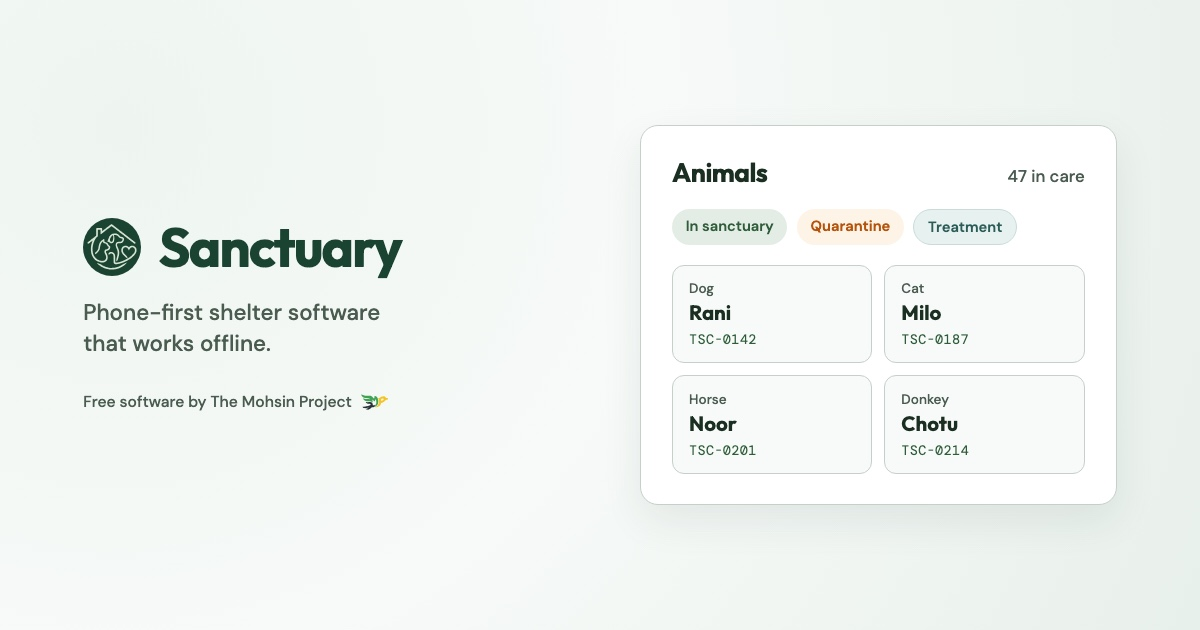
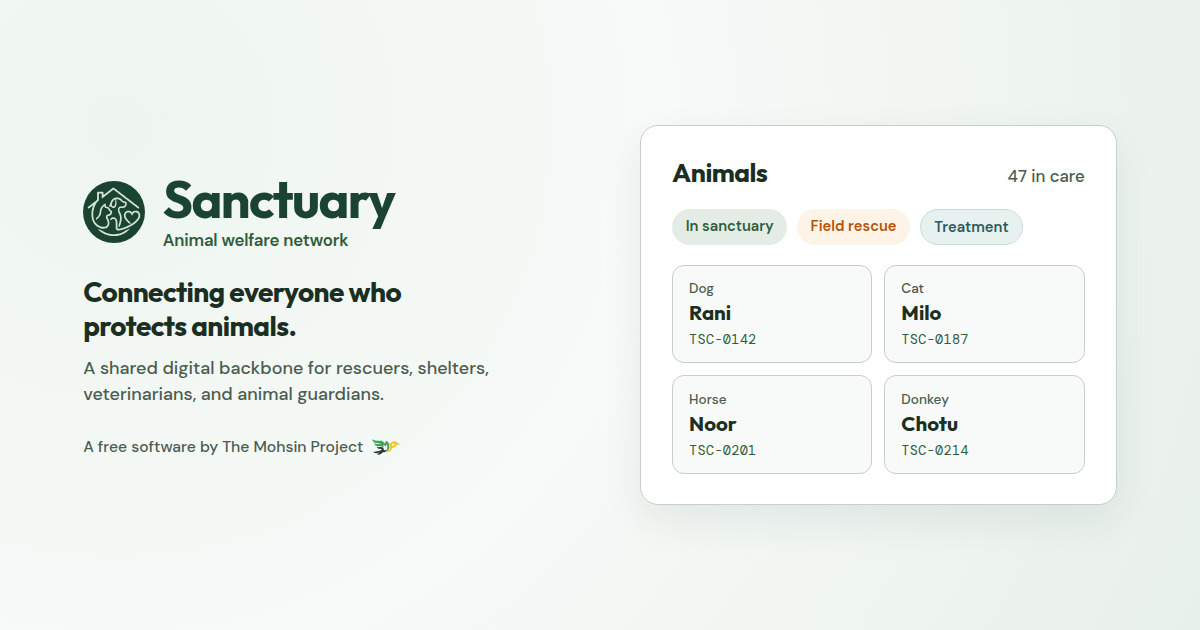
feat(seo): update OG image, SEO metadata, tab title, splash screens, and footer credit

diff --git a/index.html b/index.html
@@ -4,10 +4,10 @@
     <meta charset="UTF-8" />
     <meta name="viewport" content="width=device-width, initial-scale=1.0, viewport-fit=cover" />
 
-    <title>Sanctuary | Shelter records, offline and on the go</title>
+    <title>Sanctuary | Animal welfare network</title>
     <meta
       name="description"
-      content="Sanctuary is offline-first shelter management for animal rescues. Track animals, care, photos, and money, even without signal."
+      content="Sanctuary is an animal welfare network connecting rescuers, shelters, veterinarians, and animal guardians. Report cases, coordinate rescues, and manage care records."
     />
     <meta name="author" content="The Mohsin Project" />
     <meta name="robots" content="index, follow" />
@@ -22,26 +22,26 @@
     <meta property="og:site_name" content="Sanctuary" />
     <meta property="og:locale" content="en_US" />
     <meta property="og:url" content="https://sanctuary.themohsinproject.org/" />
-    <meta property="og:title" content="Sanctuary | Shelter records, offline and on the go" />
+    <meta property="og:title" content="Sanctuary | Animal welfare network" />
     <meta
       property="og:description"
-      content="Offline-first shelter management for animal rescues. Track animals, care, photos, and money, even without signal."
+      content="A shared digital backbone for rescuers, shelters, veterinarians, and animal guardians. Report cases, coordinate rescues, and manage animal care in one network."
     />
     <meta property="og:image" content="https://sanctuary.themohsinproject.org/og-image.jpg" />
     <meta property="og:image:type" content="image/jpeg" />
     <meta property="og:image:width" content="1200" />
     <meta property="og:image:height" content="630" />
-    <meta property="og:image:alt" content="Sanctuary care desk: shelter records offline and on the go" />
+    <meta property="og:image:alt" content="Sanctuary: The animal welfare network connecting rescuers, shelters, veterinarians, and animal guardians" />
 
     <!-- Twitter -->
     <meta name="twitter:card" content="summary_large_image" />
-    <meta name="twitter:title" content="Sanctuary | Shelter records, offline and on the go" />
+    <meta name="twitter:title" content="Sanctuary | Animal welfare network" />
     <meta
       name="twitter:description"
-      content="Offline-first shelter management for animal rescues. Track animals, care, photos, and money, even without signal."
+      content="A shared digital backbone for rescuers, shelters, veterinarians, and animal guardians. Report cases, coordinate rescues, and manage animal care in one network."
     />
     <meta name="twitter:image" content="https://sanctuary.themohsinproject.org/og-image.jpg" />
-    <meta name="twitter:image:alt" content="Sanctuary care desk: shelter records offline and on the go" />
+    <meta name="twitter:image:alt" content="Sanctuary: The animal welfare network connecting rescuers, shelters, veterinarians, and animal guardians" />
 
     <!-- Icons / PWA -->
     <link rel="icon" type="image/svg+xml" href="/favicon.svg" />
@@ -104,7 +104,7 @@
         "@type": "WebApplication",
         "name": "Sanctuary",
         "url": "https://sanctuary.themohsinproject.org/",
-        "description": "Offline-first shelter management for animal rescues. Track animals, care, photos, and money, even without signal.",
+        "description": "An animal welfare network connecting rescuers, shelters, veterinarians, and animal guardians. Report cases, coordinate rescues, and manage care records.",
         "applicationCategory": "BusinessApplication",
         "operatingSystem": "Any",
         "browserRequirements": "Requires a modern web browser with offline storage support.",
@@ -254,12 +254,12 @@
             </div>
             <div class="boot-screen__brand-text">
               <h1 class="brand">Sanctuary</h1>
-              <p class="subheading">Animal welfare platform</p>
+              <p class="subheading">Animal welfare network</p>
             </div>
           </div>
         </div>
         <div class="boot-screen__footer">
-          <span>Free software by The Mohsin Project</span>
+          <span>A free software by The Mohsin Project</span>
           <img src="/mohsin-project-logo-white.svg" alt="" height="18" />
         </div>
       </main>
@@ -268,11 +268,11 @@
       <main style="font-family: system-ui, sans-serif; max-width: 40rem; margin: 2rem auto; padding: 0 1rem; color: #1a2e22">
         <h1>Sanctuary</h1>
         <p>
-          Offline-first shelter management for animal rescues. Track animals,
-          care, photos, and money, even without signal.
+          A shared digital backbone for rescuers, shelters, veterinarians, and
+          animal guardians.
         </p>
         <p>
-          Enable JavaScript to sign in at
+          Enable JavaScript to continue at
           <a href="https://sanctuary.themohsinproject.org/">sanctuary.themohsinproject.org</a>.
         </p>
       </main>

diff --git a/scripts/generate-assets.swift b/scripts/generate-assets.swift
@@ -135,7 +135,7 @@ func generateSplashes() {
         ]
 
         let titleStr = NSAttributedString(string: "Sanctuary", attributes: titleAttrs)
-        let subStr = NSAttributedString(string: "Animal welfare platform", attributes: subAttrs)
+        let subStr = NSAttributedString(string: "Animal welfare network", attributes: subAttrs)
 
         let titleSize = titleStr.size()
         let subSize = subStr.size()
@@ -169,7 +169,7 @@ func generateSplashes() {
             .foregroundColor: footerColor,
             .kern: -0.01 * footerFontSize
         ]
-        let footerStr = NSAttributedString(string: "Free software by The Mohsin Project", attributes: footerAttrs)
+        let footerStr = NSAttributedString(string: "A free software by The Mohsin Project", attributes: footerAttrs)
         let footerStrSize = footerStr.size()
 
         let birdHeight = round(footerFontSize * 1.55)

diff --git a/src/shared/ui/SplashScreen.tsx b/src/shared/ui/SplashScreen.tsx
@@ -25,13 +25,13 @@ export function SplashScreen({
           </div>
           <div className="boot-screen__brand-text">
             <h1 className="brand">Sanctuary</h1>
-            <p className="subheading">Animal welfare platform</p>
+            <p className="subheading">Animal welfare network</p>
           </div>
         </div>
         {message ? <p className="muted">{message}</p> : null}
       </div>
       <div className="boot-screen__footer">
-        <span>Free software by The Mohsin Project</span>
+        <span>A free software by The Mohsin Project</span>
         <img src="/mohsin-project-logo-white.svg" alt="" height={18} />
       </div>
     </main>

diff --git a/vite.config.ts b/vite.config.ts
@@ -93,7 +93,7 @@ export default defineConfig({
         name: 'Sanctuary',
         short_name: 'Sanctuary',
         description:
-          'Offline-first shelter management for animal rescues. Track animals, care, photos, and money, even without signal.',
+          'A shared digital backbone for rescuers, shelters, veterinarians, and animal guardians.',
         theme_color: '#2F5D3A',
         background_color: '#2F5D3A',
         display: 'standalone',

diff --git a/src/features/auth/LoginScreen.tsx b/src/features/auth/LoginScreen.tsx
@@ -143,7 +143,7 @@ export function LoginScreen({ onSuccess }: LoginScreenProps) {
             target="_blank"
             rel="noopener noreferrer"
           >
-            <span>Free software by</span>
+            <span>A free software by</span>
             <span className="mohsin-credit__name">The Mohsin Project</span>
             <img
               src="/mohsin-project-logo.svg"

diff --git a/src/features/onboarding/screens/SetupWaitingScreen.tsx b/src/features/onboarding/screens/SetupWaitingScreen.tsx
@@ -41,7 +41,7 @@ export function SetupWaitingScreen({ onSignOut }: SetupWaitingScreenProps) {
             Sanctuary
           </h1>
           <p className="subheading" style={{ margin: 0 }}>
-            Animal welfare platform
+            Animal welfare network
           </p>
         </div>
         <p className="setup-waiting-message">

diff --git a/src/features/public/screens/PublicShelterScreen.tsx b/src/features/public/screens/PublicShelterScreen.tsx
@@ -347,7 +347,7 @@ export function PublicShelterScreen({
           target="_blank"
           rel="noopener noreferrer"
         >
-          <span>Free software by The Mohsin Project</span>
+          <span>A free software by The Mohsin Project</span>
           <img
             src="/mohsin-project-logo.svg"
             alt=""

diff --git a/src/features/landing/LandingScreen.tsx b/src/features/landing/LandingScreen.tsx
@@ -621,7 +621,7 @@ export function LandingScreen() {
           </p>
           <div className="footer__bottom">
             <span>
-              Free software by{' '}
+              A free software by{' '}
               <a
                 href="https://themohsinproject.org/"
                 target="_blank"
